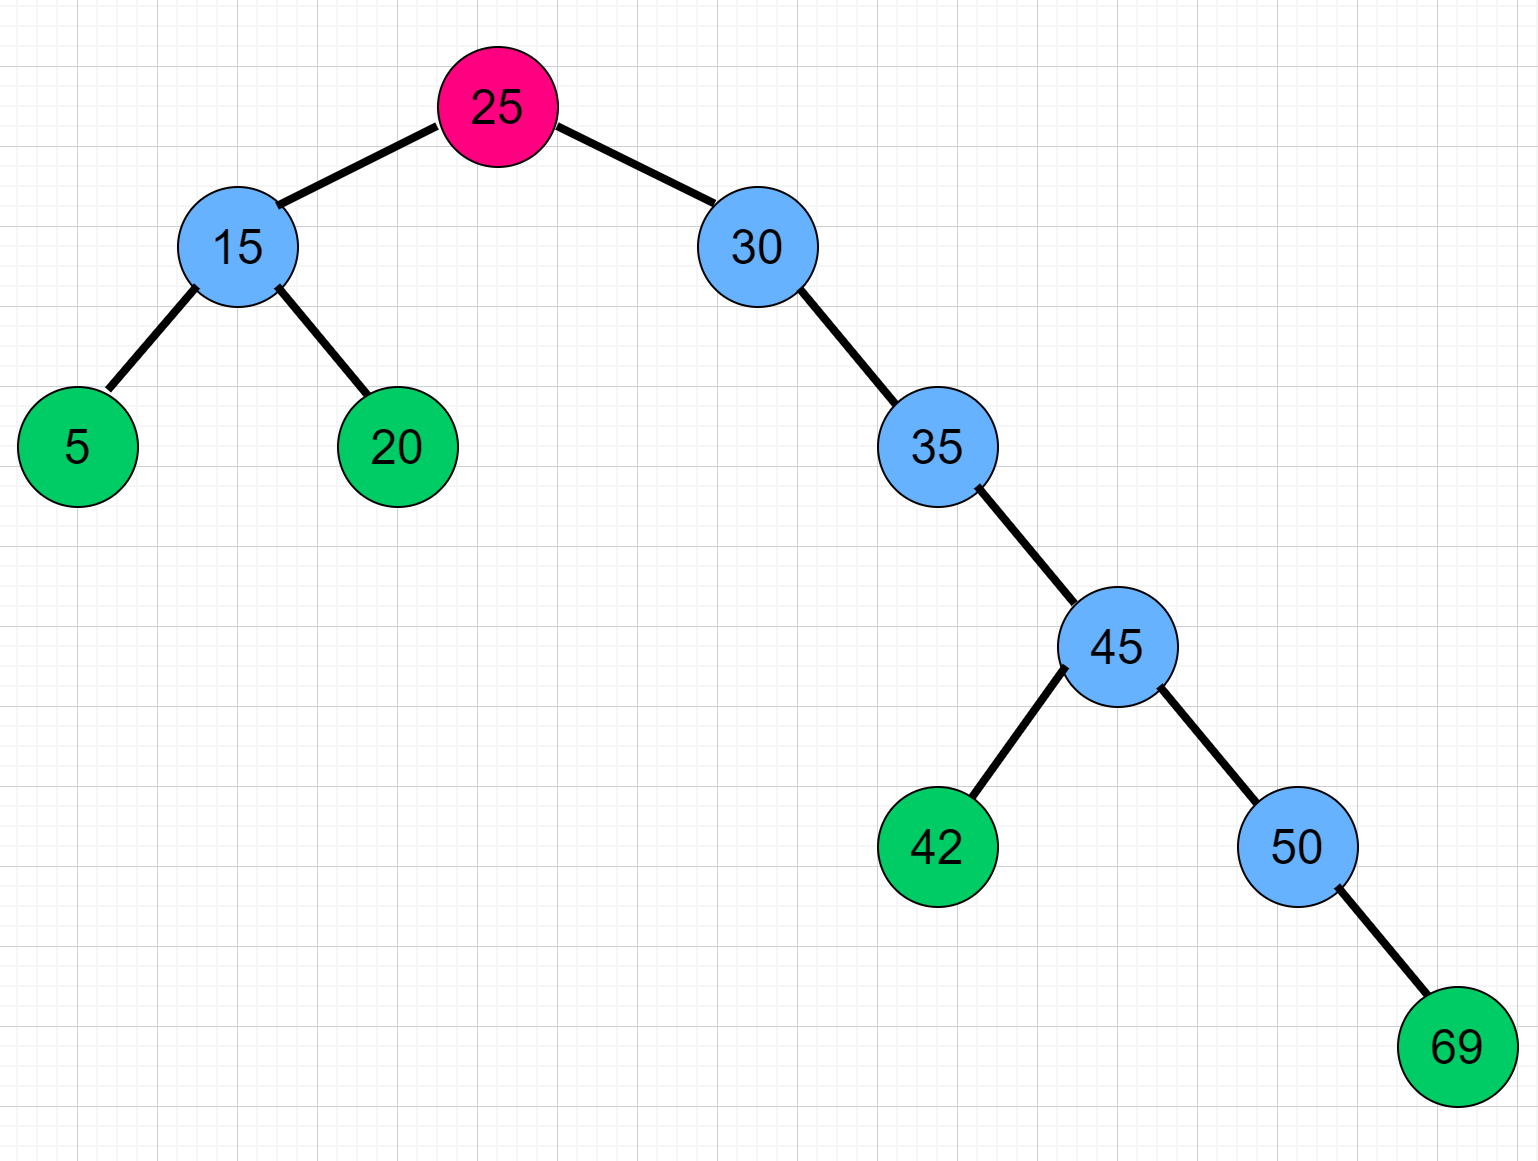
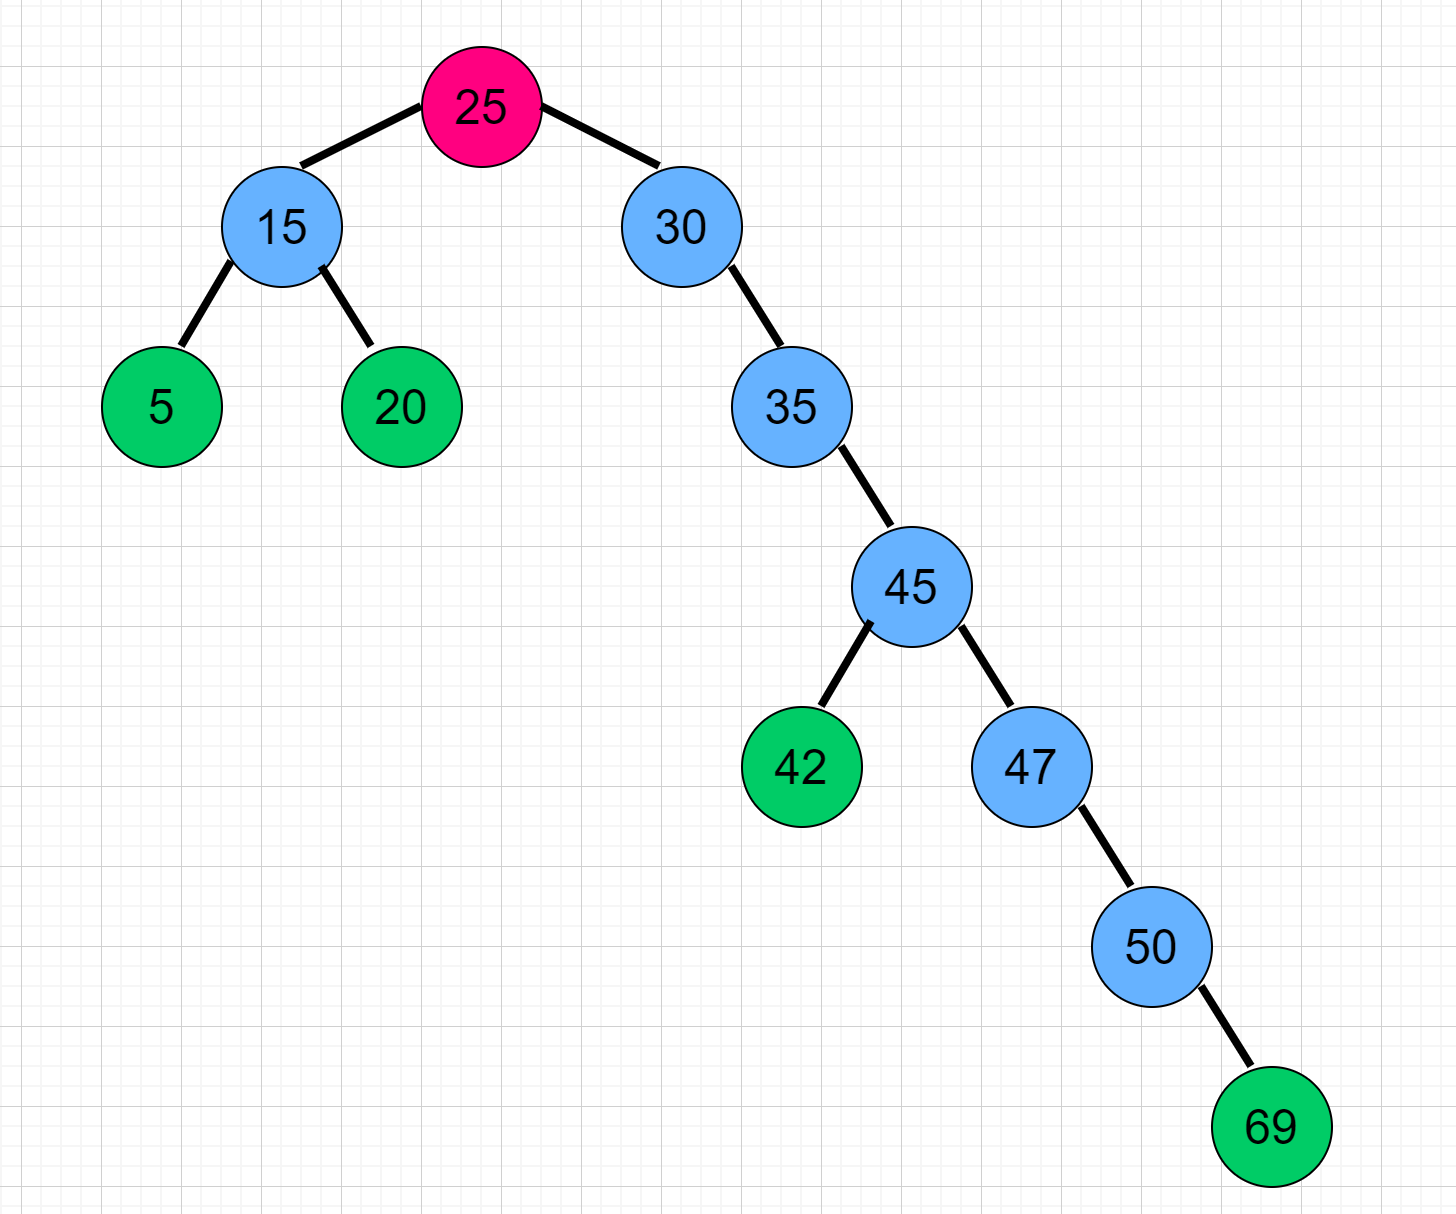
replaced BST image 11

Changed region(s): [[0.0, 0.031, 0.8963, 0.8372], [0.8345, 0.8062, 0.989, 0.9922]]

diff --git a/BinarySearchTree/Problems/CountAllNodes/problem.test.js b/BinarySearchTree/Problems/CountAllNodes/problem.test.js
@@ -65,7 +65,7 @@ test("Return 5 for number of nodes in BST", () => {
 // Test Case 11: //* Sample Input: refer to Images -> BST-structure-11.png
 test("Return 10 for number of nodes in BST", () => {
 	const tree = constructTree(Structures["11"]);
-	expect(countNodes(tree.root)).toEqual(10);
+	expect(countNodes(tree.root)).toEqual(11);
 });
 
 // Test Case 12: //* Sample Input: refer to Images -> BST-structure-12.png
